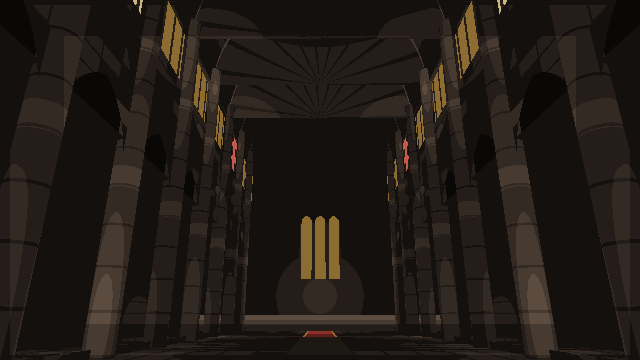
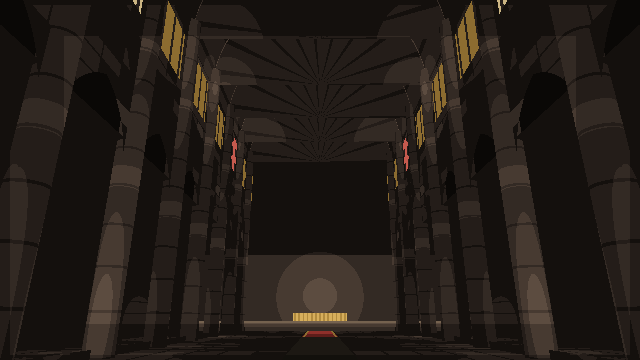
fix(title): vault ribs read as ribs; the altar moves off the menu (TD-076 T272)
The ribs were broad mis-shaded bands because of a bug I should have caught
when writing the geometry: the vault's normals pointed OUT of the shell,
away from the nave. A vault is seen from beneath, so its surface normal
faces DOWN into the room — as written, ambient() read the ceiling as an
up-facing floor and every light below it scored n.L = 0. Flipping both
barrel families' normals makes the webs shade by their own curvature and the
groins read as the mouldings they are. The rib band also tightens 0.30 ->
0.16m, since a rib is a moulding rather than a zone.

The altar was a placement problem, not a brightness one — tall lancets
standing exactly where the menu is read, dimmed twice to no effect. The
sanctuary now reads LOW: a lit altar table and its worn steps at the foot of
the far wall, with the wall above left dark. The eye still travels to it and
the lettering sits on dark stone (R255).

Captured: all four options legible, ribs converging from the crown, webs
curved. assert_on_palette green, 13 of 13 slots, all maps and selftests
green.

diff --git a/client/assets/ui/gen_title_hall.py b/client/assets/ui/gen_title_hall.py
@@ -103,7 +103,7 @@ def px(x, y):
         # The groin is where the two barrels meet — a place the geometry HAS, so the rib is a
         # moulding sitting on it rather than a line drawn across a ceiling.
         zc = (int(p[2] / G.BAY) + 0.5) * G.BAY
-        if abs(G._h_trans(p[0]) - G._h_long(p[2], zc)) < 0.30:
+        if abs(G._h_trans(p[0]) - G._h_long(p[2], zc)) < 0.16:
             idx += 2
         elif coursed(d, 1.1):
             u = math.atan2(p[1] - G.SPRING, p[0]) * 3.0
@@ -163,12 +163,15 @@ def px(x, y):
 
     elif h.kind == "apse":
         xw, hh = h.u, h.v
-        if abs(xw) < 2.6 and 6.0 < hh < G.arch_top(abs((xw + 2.6) % 1.75 - 0.875), 0.7, 13.0):
-            if abs(((xw + 2.6) / 1.75) % 1.0 - 0.5) > 0.38:
-                return ramp("navestone", 1) + (255,)
-            return ramp("gold", 1) + (255,)
-        if hh < 1.8:
-            idx = 2 + int(hh / 0.6) - vignette(fx, fy)       # the altar steps, worn pale
+        # The sanctuary reads LOW: a lit altar table and its steps at the foot of the far wall,
+        # with the wall above it left dark. The tall lancets that used to stand here sat exactly
+        # behind the menu, and dimming them twice never fixed what was a placement problem.
+        if abs(xw) < 3.2 and 1.1 < hh < 2.0:
+            return ramp("gold", 2 if abs(((xw / 0.5) % 1.0) - 0.5) > 0.3 else 3) + (255,)
+        if hh <= 1.1:
+            idx = 3 + int(hh / 0.4) - vignette(fx, fy)       # the altar steps, worn pale
+        elif hh < 9.0:
+            idx = 1 + lit - vignette(fx, fy)                 # dark wall behind the sanctuary
 
     elif h.kind == "void":
         return ramp("black", 0) + (255,)

diff --git a/client/assets/ui/hall_geometry.py b/client/assets/ui/hall_geometry.py
@@ -130,7 +130,7 @@ def _vault(ox, oy, oz, dx, dy, dz):
         zc = (int(z / BAY) + 0.5) * BAY
         if _h_trans(x) <= _h_long(z, zc) + 0.02:
             m = math.sqrt(x * x + (y - SPRING) ** 2) or 1.0
-            best = (t, "vault", (x / m, (y - SPRING) / m, 0.0), x, z)
+            best = (t, "vault", (-x / m, -(y - SPRING) / m, 0.0), x, z)
 
     # longitudinal barrels, one per bay — ellipses with semi-axes (r, HALF_W):
     #   ((z−zc)/r)² + ((y−SPRING)/HALF_W)² = 1
@@ -151,7 +151,7 @@ def _vault(ox, oy, oz, dx, dy, dz):
                 # gradient of the ellipse, not of a circle
                 gy, gz = (y - SPRING) / R2, (z - zc) / r2
                 m = math.sqrt(gy * gy + gz * gz) or 1.0
-                best = (t, "vault", (0.0, gy / m, gz / m), x, z)
+                best = (t, "vault", (0.0, -gy / m, -gz / m), x, z)
     return best
 
 

diff --git a/docs/technical/spec-status.md b/docs/technical/spec-status.md
@@ -19,8 +19,8 @@ These are disagreements between what a spec says and what the tree contains.
 
 ### `specs/title-hall/` — 🟡 dormant
 
-- **MISSING** — open tasks name 2 file(s) not in the tree: gen_title_matte.py, hall_geometry.py
-- **LIKELY-SHIPPED** — 3 open task(s) name only files that already exist — check whether the work shipped and the box was never ticked: T277, T268a, T272
+- **MISSING** — open tasks name 1 file(s) not in the tree: gen_title_matte.py
+- **LIKELY-SHIPPED** — 3 open task(s) name only files that already exist — check whether the work shipped and the box was never ticked: T277, T268a, T276
 
 ## All specs
 
@@ -28,7 +28,7 @@ These are disagreements between what a spec says and what the tree contains.
 |---|---|---:|---:|---:|---|---|
 | `mobile-input` | 🟡 dormant | 0 | 10 | 0 | 2026-07-11 | MISSING |
 | `station-ui` | 🟡 dormant | 3 | 6 | 0 | 2026-07-24 | MISSING |
-| `title-hall` | 🟡 dormant | 4 | 13 | 0 | 2026-07-25 | MISSING, LIKELY-SHIPPED |
+| `title-hall` | 🟡 dormant | 5 | 12 | 0 | 2026-07-25 | MISSING, LIKELY-SHIPPED |
 | `title-scene` | ⛔ blocked | 19 | 1 | 0 | 2026-07-25 | — |
 | `collegium-client` | 🟡 dormant | 6 | 1 | 0 | 2026-07-24 | — |
 | `nave-cathedral` | 🟡 dormant | 3 | 2 | 0 | 2026-07-23 | — |

diff --git a/specs/title-hall/tasks.md b/specs/title-hall/tasks.md
@@ -83,7 +83,7 @@
       Test: capture with lights on and `--lights-off`; every difference is local to a source. Plus
       an assertion that the light term's type is `int` at the point of use (P131).
 
-- [ ] T272 [R248, R249, R254, R258, P130 / V1, V4] — **Re-render the plate on the new geometry, at
+- [x] T272 [R248, R249, R254, P130 / V1, V4] — **Re-render the plate on the new geometry, at
       1280×720.** `gen_title_hall.py` keeps its material and banding discipline and drops every
       painted-curvature hack (rib lines on a plane, shaft stripes on a wall). Authoring resolution
       goes to 1280×720 so the grain is fine enough for the detail Phase B adds.
